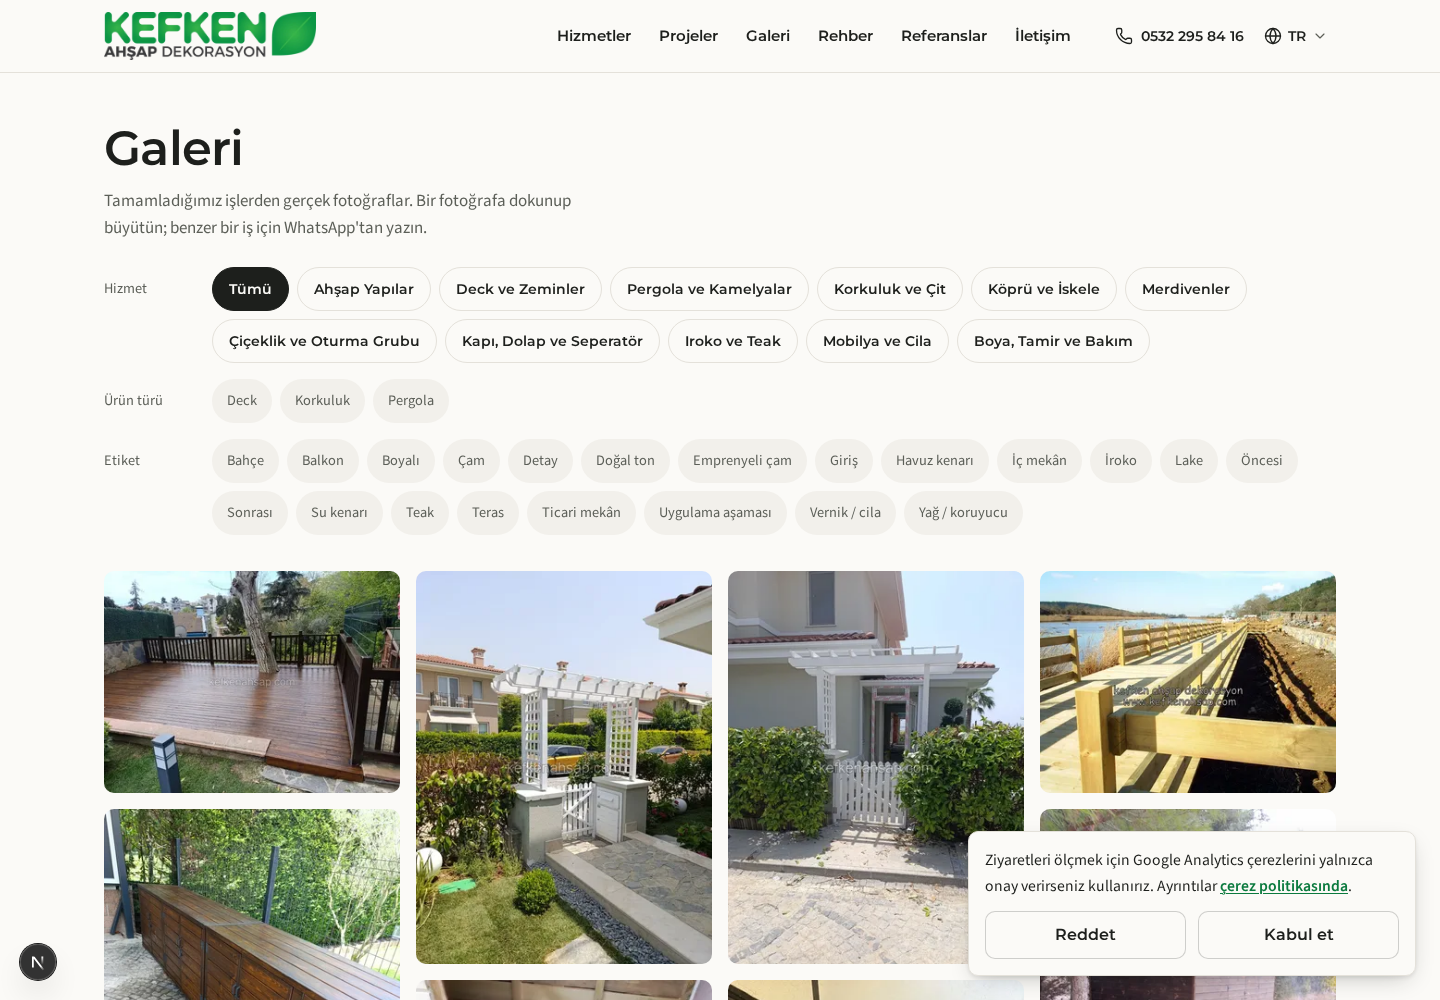
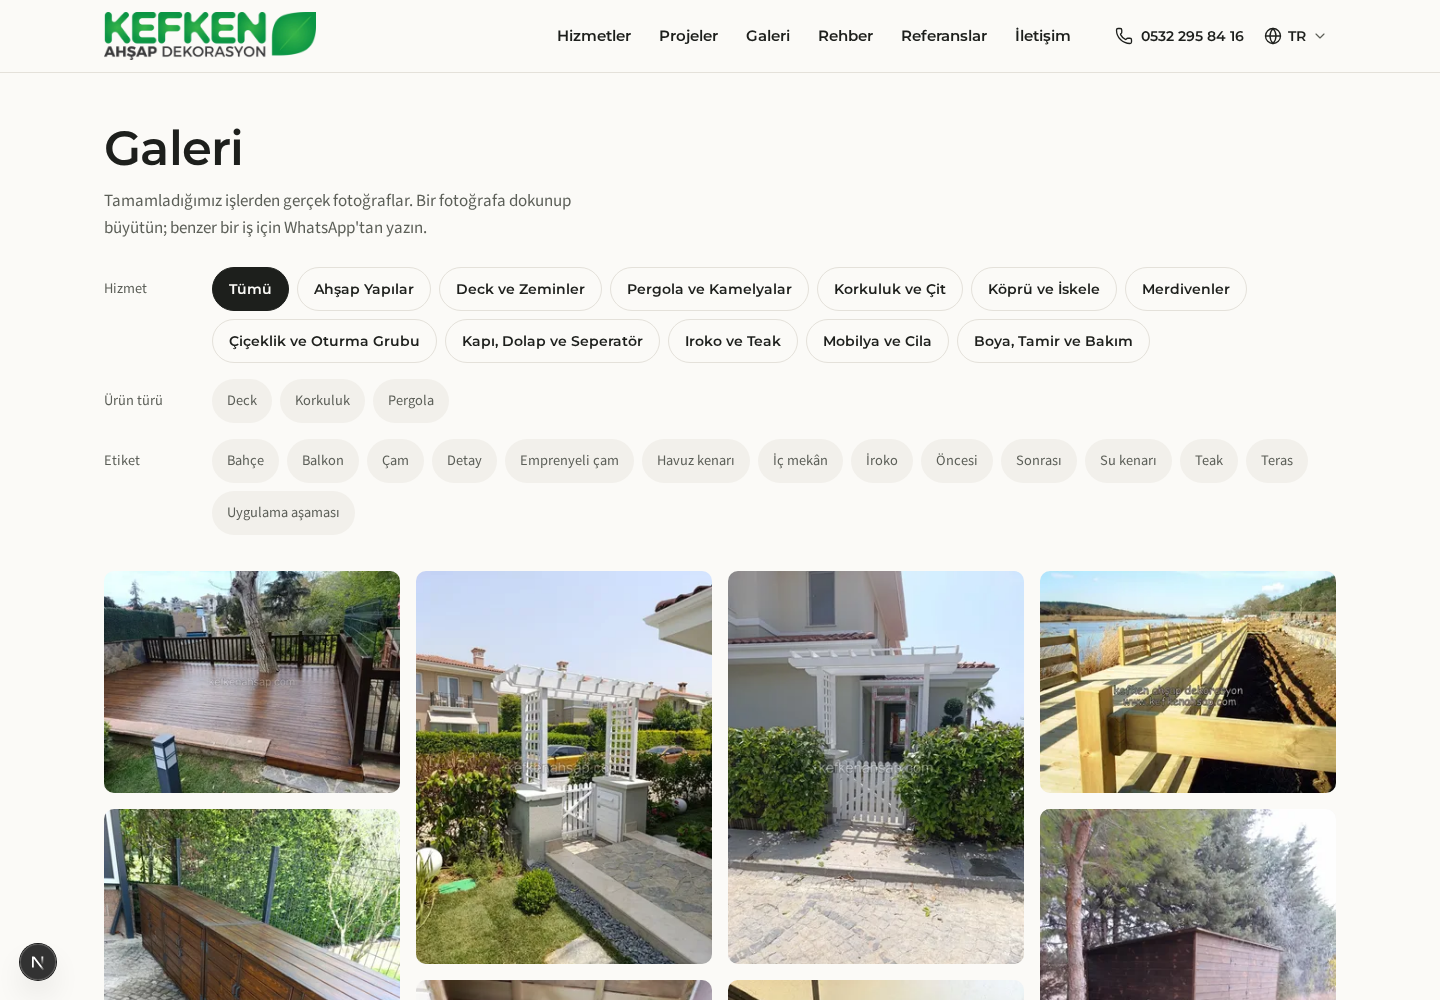
feat(gallery): 5-photo rule on every tag chip row, plan note (#171)
A tag the v0 loader creates before any photo carries it must not show as a chip leading to an empty gallery.

diff --git a/src/lib/gallery/tag-rows.ts b/src/lib/gallery/tag-rows.ts
@@ -1,26 +1,19 @@
-/** A product type earns its gallery chip from this many approved photos (taxonomy v0's 5-photo rule, #171). */
-export const MIN_TYPE_PHOTOS = 5
+/** A tag earns its gallery chip from this many approved photos (taxonomy v0's 5-photo rule, #171). */
+export const MIN_TAG_PHOTOS = 5
 
 /**
  * Splits the gallery tags into the product-type row and the row of every other axis. `photoTags` is each approved
- * photo's tag ids. A type shows from `min` photos, or while it is the active filter (so it can be cleared); the other
- * axes keep showing as before. Input order is kept.
+ * photo's tag ids. A tag shows from `min` photos, or while it is the active filter (so it can be cleared), so a tag
+ * no photo carries yet never leads to an empty gallery. Input order is kept.
  */
 export function galleryTagRows<T extends { id: number; slug?: string | null; axis: string }>(
   tags: T[],
   photoTags: number[][],
   active?: string,
-  min = MIN_TYPE_PHOTOS,
+  min = MIN_TAG_PHOTOS,
 ): { types: T[]; others: T[] } {
   const count = new Map<number, number>()
-  for (const ids of photoTags)
-    for (const id of new Set(ids)) count.set(id, (count.get(id) ?? 0) + 1)
-  return {
-    types: tags.filter(
-      (t) =>
-        t.axis === 'type' &&
-        ((count.get(t.id) ?? 0) >= min || (active !== undefined && t.slug === active)),
-    ),
-    others: tags.filter((t) => t.axis !== 'type'),
-  }
+  for (const ids of photoTags) for (const id of new Set(ids)) count.set(id, (count.get(id) ?? 0) + 1)
+  const shown = tags.filter((t) => (count.get(t.id) ?? 0) >= min || (active !== undefined && t.slug === active))
+  return { types: shown.filter((t) => t.axis === 'type'), others: shown.filter((t) => t.axis !== 'type') }
 }

diff --git a/src/lib/data/gallery.ts b/src/lib/data/gallery.ts
@@ -158,18 +158,17 @@ export const getGalleryTags = (locale: Locale) =>
     { tags: [TAGS.tags], revalidate: HOUR },
   )()
 
-/** The gallery's chip rows: product types with enough approved photos (see galleryTagRows), then the other tags. */
+/** The gallery's chip rows: product types, then the other tags, each with enough approved photos (see galleryTagRows). */
 export async function getGalleryTagRows(tags: Awaited<ReturnType<typeof getGalleryTags>>, active?: string) {
-  const typeIds = tags.filter((t) => t.axis === 'type').map((t) => t.id)
-  return galleryTagRows(tags, typeIds.length ? await getTypePhotoTags(typeIds) : [], active)
+  return galleryTagRows(tags, tags.length ? await getPhotoTags() : [], active)
 }
 
-// Each approved photo's tag ids, for the photos carrying one of the given product types.
-const getTypePhotoTags = unstable_cache(
-  async (typeIds: number[]) => {
+// Each approved gallery photo's tag ids (photos without a tag left out), for the chips' photo threshold.
+const getPhotoTags = unstable_cache(
+  async () => {
     const res = await (await getPayload()).find({
       collection: 'media',
-      where: { and: [...galleryWhere({}).and, { tags: { in: typeIds } }] },
+      where: { and: [...galleryWhere({}).and, { tags: { exists: true } }] },
       select: { tags: true },
       depth: 0,
       pagination: false,
@@ -177,7 +176,7 @@ const getTypePhotoTags = unstable_cache(
     })
     return res.docs.map((d) => (d.tags ?? []).map((t) => (typeof t === 'number' ? t : t.id)))
   },
-  ['typePhotoTags'],
+  ['galleryPhotoTags'],
   { tags: [TAGS.media, TAGS.tags], revalidate: HOUR },
 )
 

diff --git a/src/lib/gallery/tag-rows.test.ts b/src/lib/gallery/tag-rows.test.ts
@@ -32,8 +32,13 @@ describe('galleryTagRows', () => {
     expect(slugs(galleryTagRows(tags, photos(2, 1), 'pergola').types)).toEqual(['pergola'])
   })
 
-  it('keeps every other axis in the tag row, without the types and without a threshold', () => {
-    expect(slugs(galleryTagRows(tags, []).others)).toEqual(['iroko', 'bahce'])
+  it('puts every other axis in the tag row, under the same 5-photo rule', () => {
+    const rows = galleryTagRows(tags, [...photos(3, 5), ...photos(4, 4)])
+    expect(slugs(rows.others)).toEqual(['iroko'])
+  })
+
+  it('keeps an active tag of another axis visible below the threshold', () => {
+    expect(slugs(galleryTagRows(tags, [], 'bahce').others)).toEqual(['bahce'])
   })
 
   it('keeps the input order', () => {

diff --git a/docs/PLAN.md b/docs/PLAN.md
@@ -93,7 +93,7 @@ Tüm metin alanları `localized: true`. Taslak/versiyon (`versions.drafts`) + Li
 | **users** | name, role (`admin` / `editor`), adminLanguage (tr) |
 | **media** (upload) | alt*, title*, caption* (TR/EN), seoFilename, category (rel), tags (rel many), project (rel), status (`pending` / `approved` / `hidden`), aiSuggestion (json: alt/title/tags/confidence/model), capturedAt (EXIF), width/height, lqip, dominantColor, focalPoint, watermark (`applied` / `already` / `none`, #169), **legacyUrls[]** (eski WP URL + boyut varyantları), legacyAttachmentUrl, featured (bool) |
 | **categories** | name*, slug* (TR/EN ayrı), shortDesc*, body* (Lexical, 300–600 kelime), faq[] {q*, a*}, priceGuide {min, max, unit, currency, note*, updatedAt}, cover, `media` = **join** (category → media, `orderable: true` → sürükle-bırak sıralama), seo {title*, description*, ogImage}, order (orderable) |
-| **tags** | name*, slug*, axis (`wood` / `setting` / `finish` / `stage`), description* (≥N görselde indekslenir) |
+| **tags** | name*, slug*, axis (`type` ürün türü, #171 / `wood` / `setting` / `finish` / `stage`), description* (≥N görselde indekslenir; galeri çipi ≥5 onaylı fotoğrafta görünür) |
 | **projects** | title*, slug*, categories, tags, gallery (sıralı media), cover, story* (Lexical), city, district, mapPin (opsiyonel, yaklaşık), year, woodSpecies, area {value, unit}, duration, finish*, testimonial {quote*, author, role, consentGiven}, reference (rel), featured |
 | **guides** (rehber/blog) | title*, slug*, excerpt* (cevap-önce), body* (Lexical), faq[], author (rel users → Person schema), publishedAt, updatedAt, relatedCategories, relatedProjects |
 | **regions** | name*, slug*, districts[], body* (elle yazılır), projects (rel), **publishGate** (en az 3 proje + 250 kelime yoksa noindex) |
